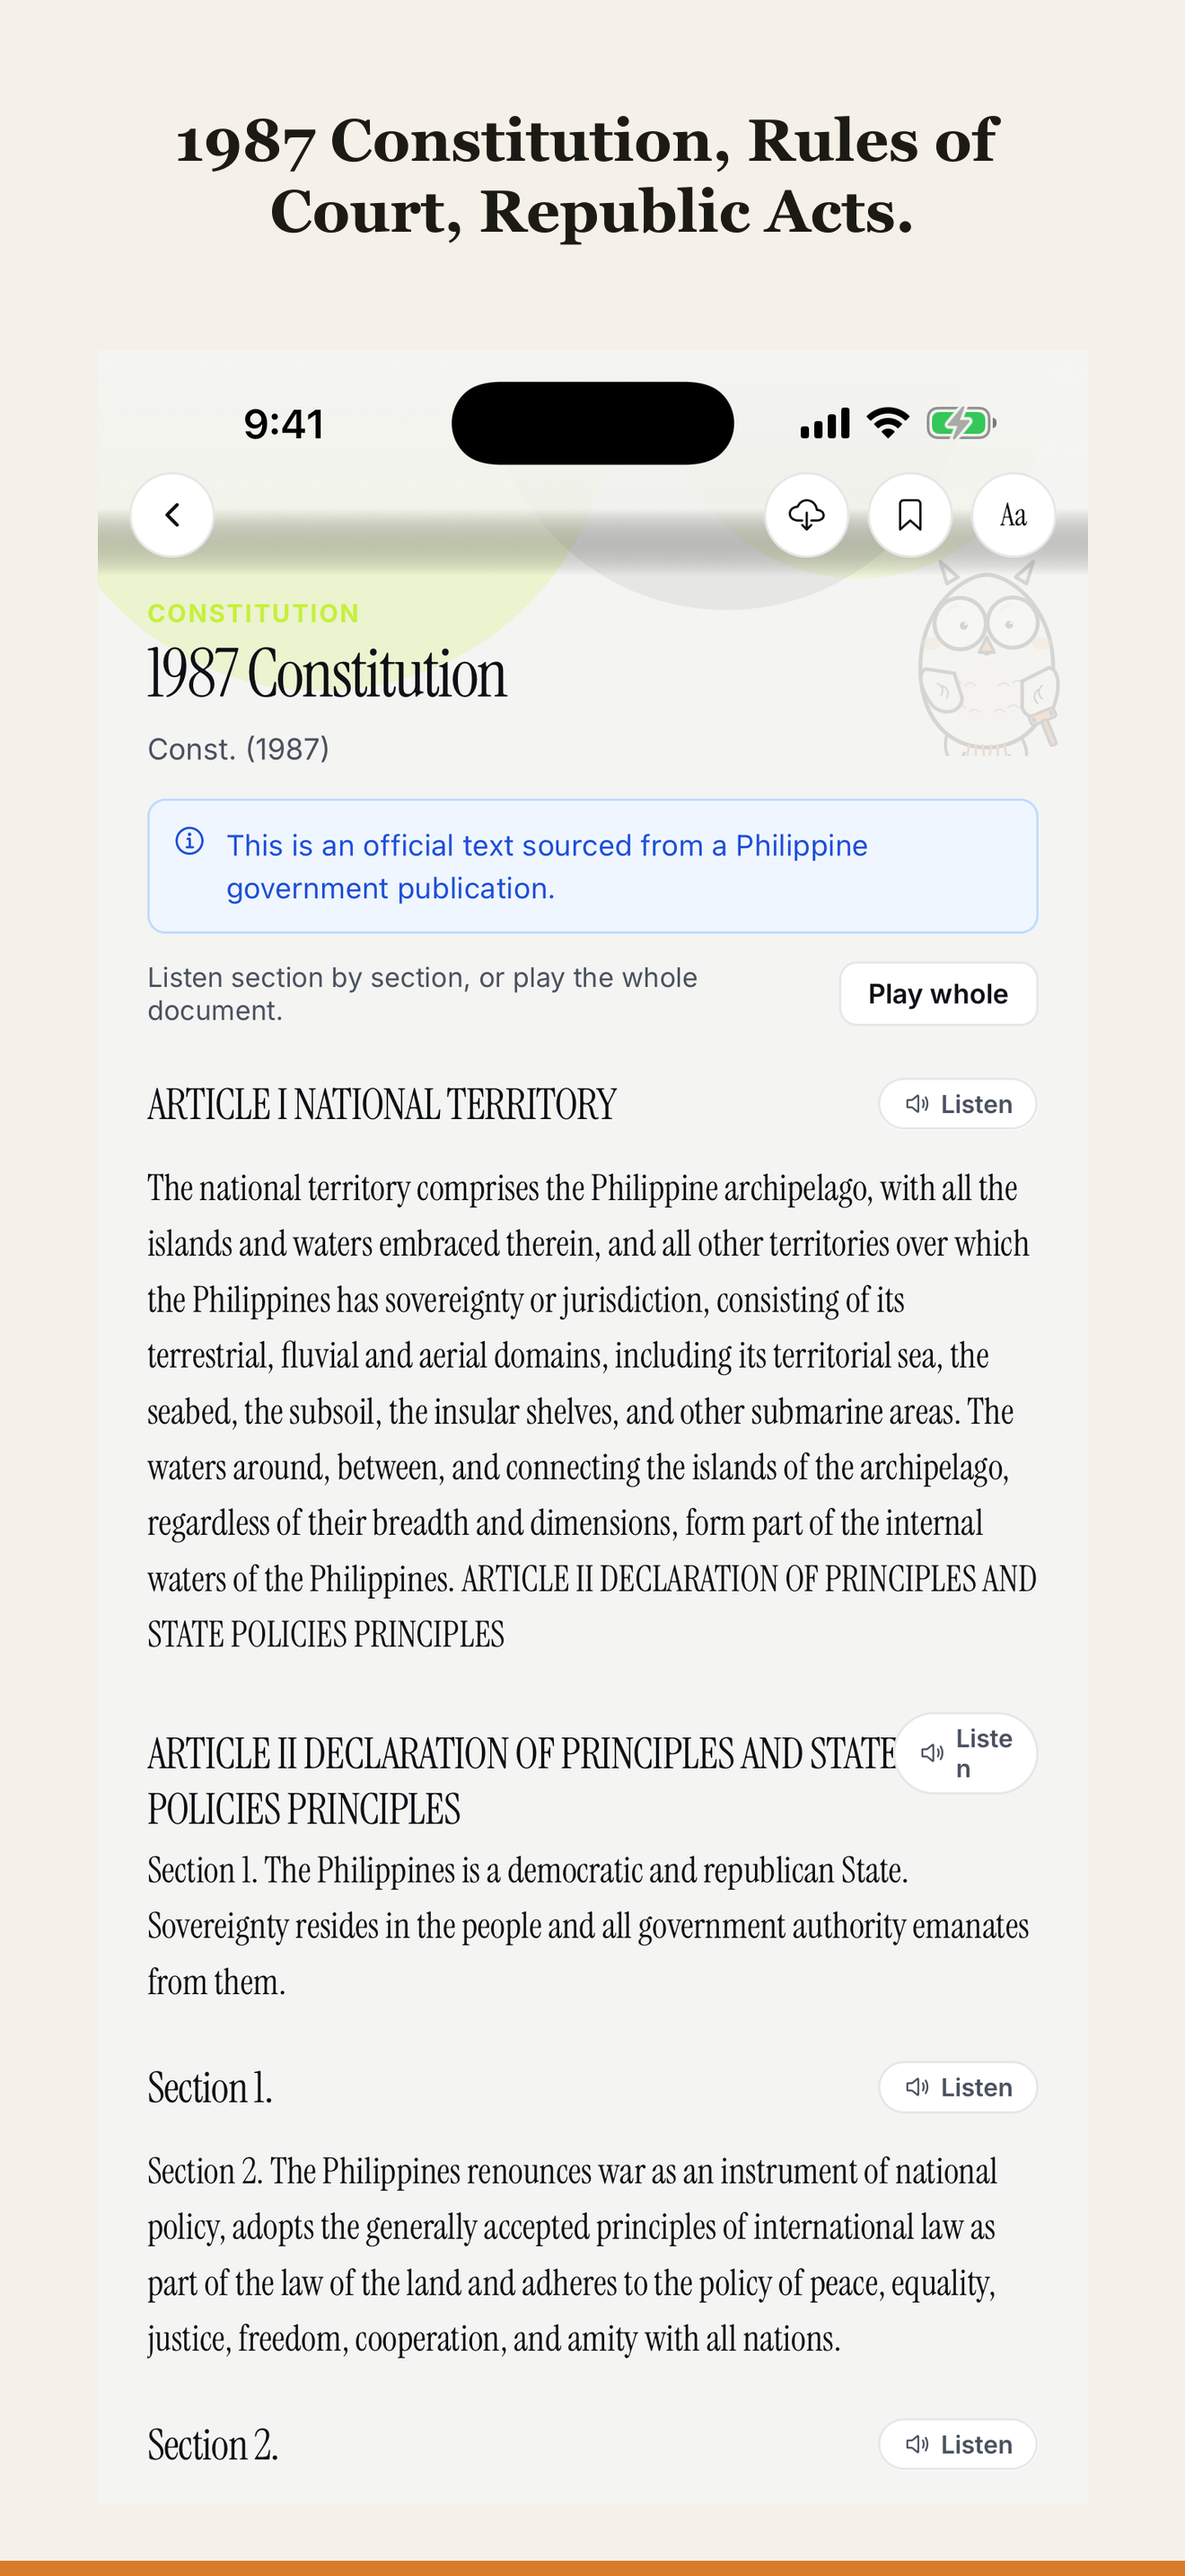
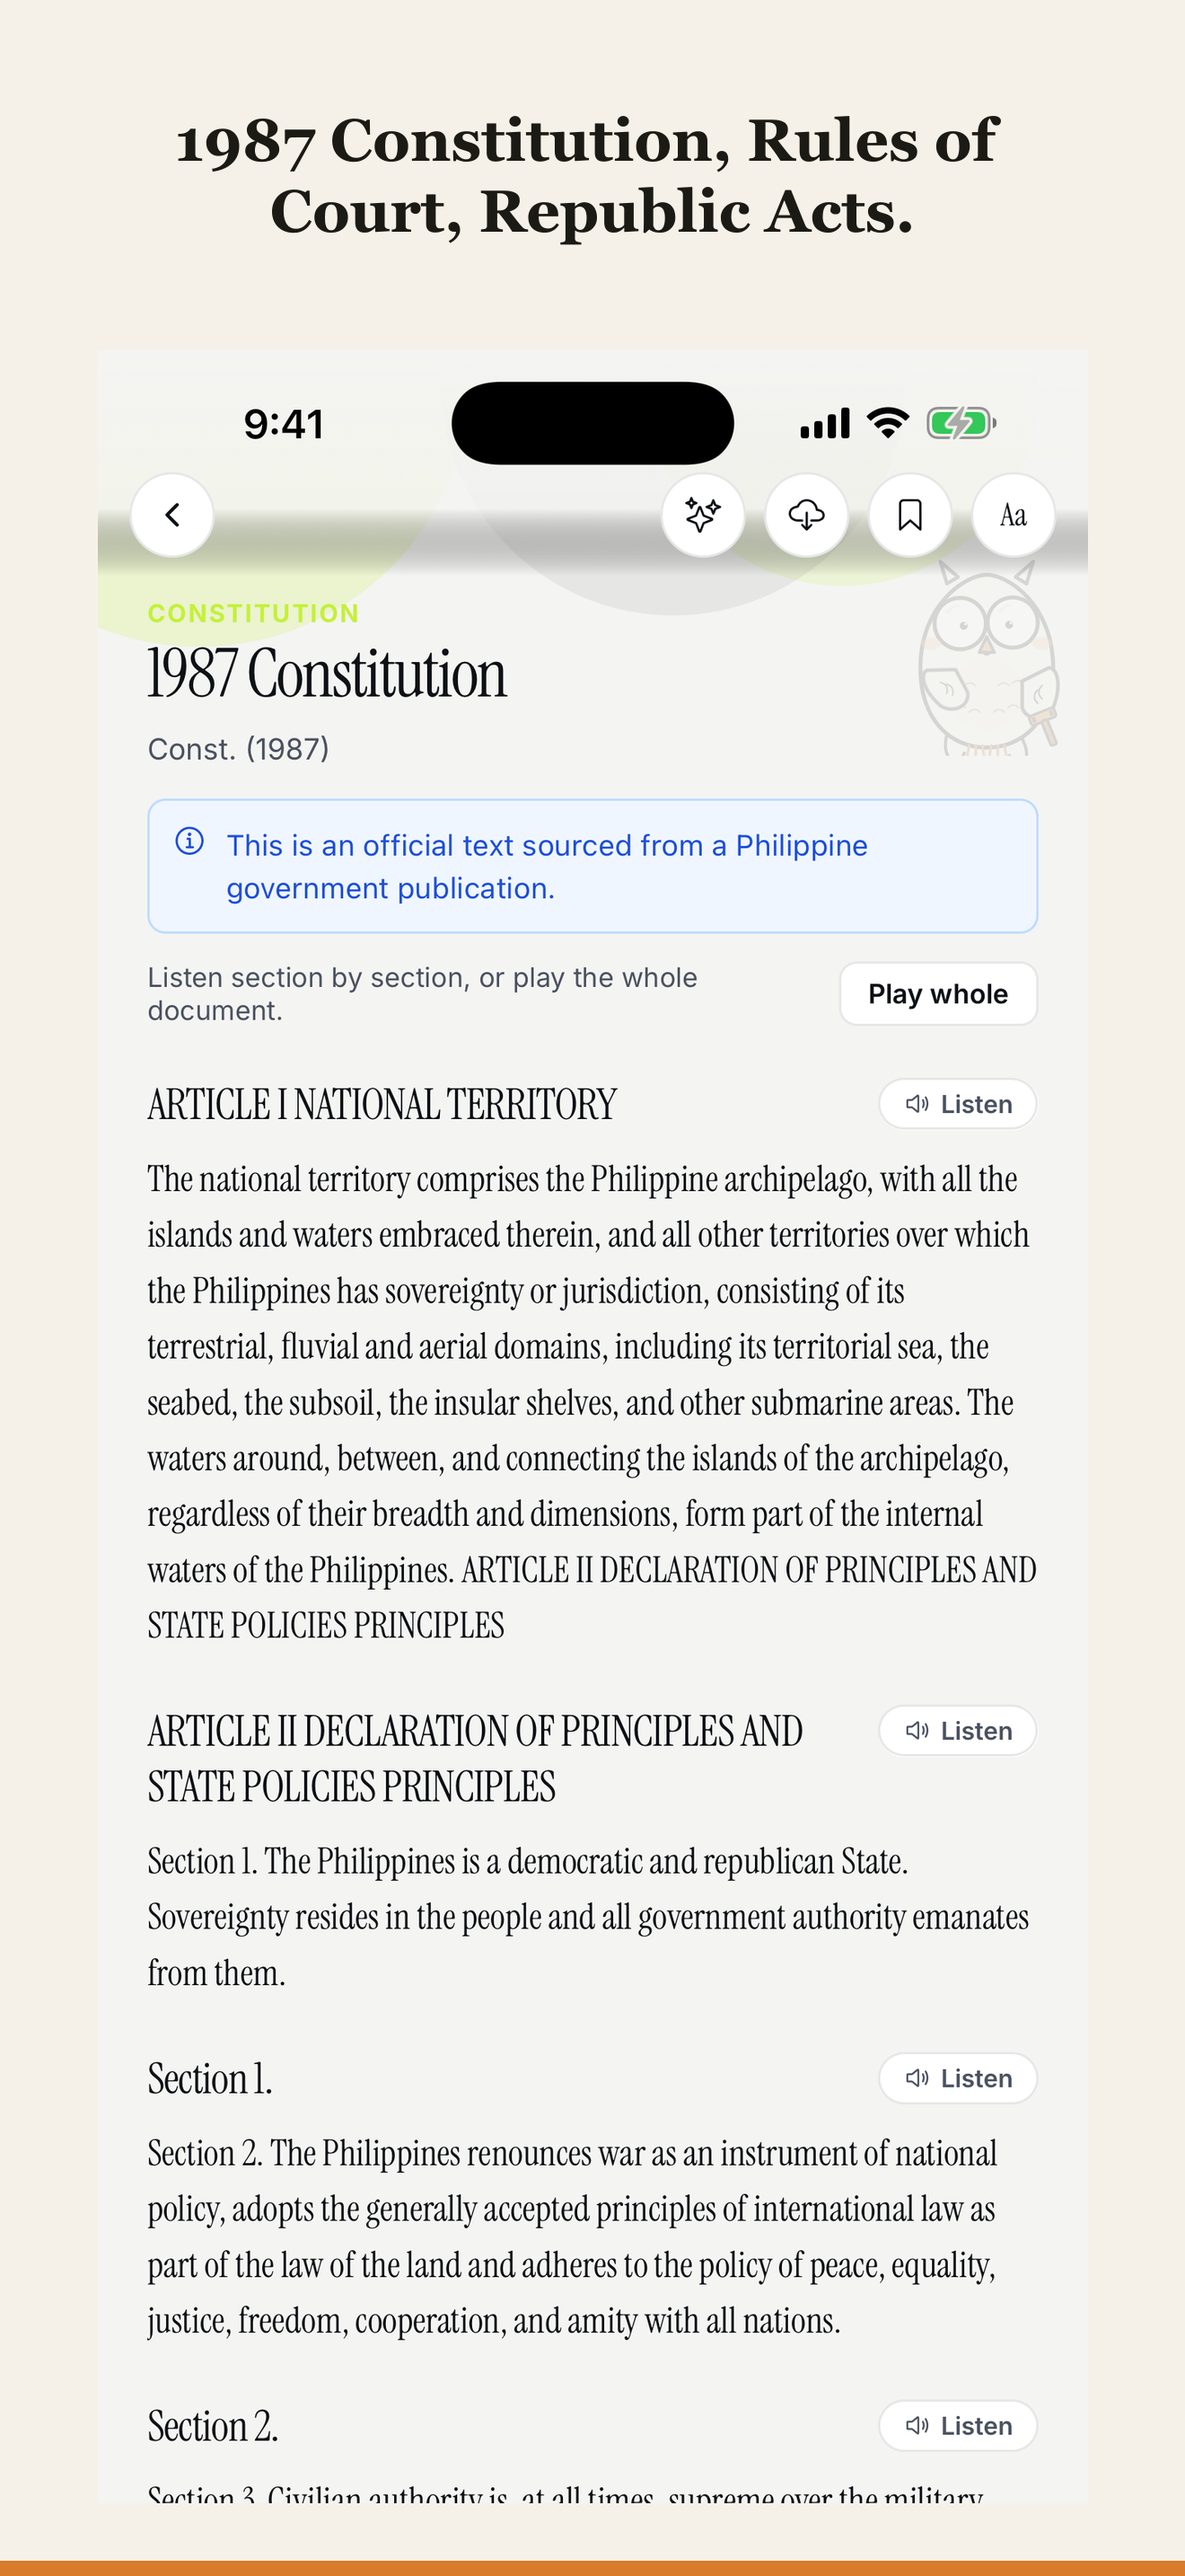
chore(mobile): recapture App Store screenshots for iPhone (#378)
* chore(mobile): recapture App Store screenshots for iPhone and iPad

Second capture session, run against a simulator whose JS bundle was refreshed
from fadaf7f so #375/#376/#377 are actually on device.

Bundle gate PASSED before anything was captured: AI Summary on a live prod
query returned streamed text, a Sources (8) panel and a High confidence (100%)
badge — no "Request failed with status 201", no bare "validation_failed".
No native rebuild was needed; ExpoFetchModule is already compiled into the
installed binary. §8a records the export:embed + hermesc + codesign recipe.

Config corrections — three navHints described screens that do not exist or were
not what got shot, and 06 described a screen that was never built:
- 02-case-digests → the digests LIST, never the detail (its hero is a
  `<Photo label="hero · digest" />` placeholder with text illegible across it)
- 03-codal-reader → Search → "constitution", not the Codals tab
- 05-camera-scan  → the Scan LANDING screen; a staged viewfinder would itself
  be the 2.3.3 problem, since the simulator has no camera
- 06-offline-sync → REPLACED by 06-search. No sync/offline screen exists.
The §4 screens table now matches.

iPhone 6.9" (1320×2868): 6 raws, 5 framed.
- 03 RESHOT — the "Liste/n" pill collision is gone, verified against the
  two-line ARTICLE II heading that used to trigger it.
- 06-search NEW — query "constitution" puts four distinct result types in
[…]

diff --git a/apps/mobile/store/IOS_SCREENSHOT_CAPTURE.md b/apps/mobile/store/IOS_SCREENSHOT_CAPTURE.md
@@ -174,14 +174,18 @@ platform's exact pixel size.
 From `assets/store/screenshots.config.json`. **Only the first 3 appear on App
 Store install sheets**, so the order is not cosmetic.
 
+Corrected 2026-08-13 to match what the build actually renders. Three navHints
+described screens that do not exist or were not what got shot; `06` described a
+screen that was never built and has been replaced outright.
+
 | # | slug | navHint |
 |---|---|---|
 | 1 | `01-past-bar-exams` | Bar Exams tab → year/subject browser |
-| 2 | `02-case-digests` | Open a case digest → scroll to facts |
-| 3 | `03-codal-reader` | Codals tab → 1987 Constitution, Article III |
-| 4 | `04-ai-assistant` | AI chat → send a query, wait for the cited answer |
-| 5 | `05-camera-scan` | Camera scanner → frame a sample printout |
-| 6 | `06-offline-sync` | Settings → Sync (last-synced + offline toggle) |
+| 2 | `02-case-digests` | The digests **list** screen. **Not** the detail — its hero is a `<Photo label="hero · digest" />` placeholder with pinned text rendering illegibly across it |
+| 3 | `03-codal-reader` | Search → "constitution" → 1987 Constitution, Article I. The Codals-tab route does not work |
+| 4 | `04-ai-assistant` | AI Summary → send a query that **answers** rather than abstains; confirm the Sources panel is in frame before capturing |
+| 5 | `05-camera-scan` | The Scan **landing** screen (Start Scan + real Recent Scans). Not a viewfinder — the simulator has no camera and staging one is itself a 2.3.3 violation |
+| 6 | `06-search` | Search tab → a broad legal term (e.g. "estafa") → results showing mixed result types |
 
 ---
 
@@ -385,6 +389,155 @@ child of window 1), which maps device pixels to screen points exactly.
   1320×2868 natively. **Read the accepted sizes off the 6.9" upload slot before
   uploading**; if it rejects 1320×2868, change `screenshots.config.json` to
   1290×2796 and re-run the framing step.
+
+### Session 2 — 2026-08-13 (after #374–#377 landed)
+
+**6 of 6 iPhone screens captured, 5 framed. iPad pass blocked on sign-in.
+Nothing uploaded to ASC. Submit for Review still unpressed.**
+
+#### Refreshing the JS bundle without a native rebuild
+
+The installed app is a **Release** build with Hermes bytecode embedded at
+`LIBERTASIAN.app/main.jsbundle`. It does not talk to Metro, so "restart Metro
+and reload" cannot deliver new JS to it. What does work, and takes ~2 minutes:
+
+```bash
+eval "$(fnm env --shell bash)" && fnm use 22.13.0
+pnpm --filter @libertasian/types build          # dist/ is gitignored (§8a)
+cd apps/mobile
+npx expo export:embed --platform ios --dev false \
+  --entry-file node_modules/expo-router/entry.js \
+  --bundle-output /tmp/b/main.jsbundle --assets-dest /tmp/b/assets
+# export:embed emits PLAIN JS; the app is Hermes. Compile it:
+node_modules/.../react-native/sdks/hermesc/osx-bin/hermesc \
+  -emit-binary -O -out /tmp/b/main.hbc /tmp/b/main.jsbundle
+APP=$(xcrun simctl get_app_container <UDID> com.libertasian.app)
+cp /tmp/b/main.hbc "$APP/main.jsbundle"
+codesign --force --sign - "$APP"                 # resources are sealed
+xcrun simctl terminate <UDID> com.libertasian.app && xcrun simctl launch <UDID> com.libertasian.app
+```
+
+`ExpoFetchModule` is already compiled into the binary (`strings` finds it), so
+#375's switch to `expo/fetch` needs **no** native rebuild — confirmed working.
+Both the iPhone 16 Pro Max and the iPad Pro 13" (M4) simulators now carry a
+bundle built from `fadaf7f`. Their original bundles are not backed up in-repo;
+reinstalling the app restores them.
+
+#### Bundle gate — PASSED
+
+AI Summary on a live prod query returned streamed text, a **Sources (8)** panel
+and a **High confidence (100%)** badge. No "Request failed with status 201", no
+bare `validation_failed`. #375, #376 and #377 are all confirmed on device.
+
+#### Further corrections to this document
+
+5. **`capture-screenshots.mjs` is interactive** (prompts, waits for Enter) and
+   hardcodes `xcrun simctl io booted screenshot`. Under an automated session it
+   is easier to drive the app directly and write
+   `assets/store/screenshots/raw/<slug>.ios.png` with an explicit `-UDID`,
+   which also sidesteps the `booted` ambiguity of §8a note 4.
+6. **System Events `click at` fails against the Simulator** with `-25204`
+   (`kAXErrorCannotComplete`). Use CGEvent mouse events, as §8a did. The
+   Accessibility grant on **Terminal** is inherited by child processes, so
+   `AXIsProcessTrusted()` is already true from a venv python — no new TCC prompt.
+   §8a's 120ms/char typing rate is still required; the recent-searches list
+   still carries `cnstitutiono` from the 30ms attempt.
+
+#### Per-screen outcome
+
+| # | slug | status | note |
+|---|---|---|---|
+| 1 | `01-past-bar-exams` | **reused** | Last session's frame is clean; nothing to fix. |
+| 2 | `02-case-digests` | **reused** | Digests list. Detail screen still blocked by the `hero · digest` placeholder. |
+| 3 | `03-codal-reader` | **RESHOT** | 1987 Constitution, Article I. **The "Liste/n" pill collision is gone** — verified against the two-line `ARTICLE II DECLARATION OF PRINCIPLES AND STATE POLICIES` heading. |
+| 4 | `04-ai-assistant` | **captured, NOT cleared for store** | Raw committed as evidence; deliberately **not** framed. See below. |
+| 5 | `05-camera-scan` | **reused** | Scan landing. |
+| 6 | `06-search` | **NEW** | Query `constitution` — four distinct result types in frame (Constitution, Decision, Executive Order, Bar Exam Questions). `estafa` was tried first and returned almost entirely Bar Q&A. |
+
+#### New blocker — 04 is still not shippable, for a different reason
+
+The streaming bug is fixed, but every substantive answer now renders **raw
+citation markers**:
+
+> …encompassing terrestrial, fluvial, and aerial domains, as well as internal
+> waters **[SOURCE 2e2bad34-d194-4ddb-9e70-c9d0cd2ff388§f767e1bc-4578-4a85-a99b-6f9886af62d7]**.
+
+`services/rag-service/src/answer/prompts.py:21,37` instructs the model to emit
+`[SOURCE document_id]` / `[SOURCE document_id§section_id]` inline, and **neither
+client strips nor renders them** — `grep` for the marker across `apps/web/src`
+and `apps/mobile/src` returns nothing. So this is live on both platforms, and it
+is not scroll-position-dependent: the only answers without markers are
+abstentions. Unrendered `**markdown**` bold appears for the same reason.
+
+A store frame whose hero text is a bare UUID reads as debug output, so `04` is
+held out of `framed/`. Two smaller issues on the same screen: the Sources panel
+lists the same document 8× (no dedupe by document), and once scrolled the answer
+runs under the status bar with no opaque background, so text collides with the
+clock.
+
+**Fix the markers before capturing 04.** Everything else about the screen is
+ready.
+
+#### iPad — blocked on sign-in, not on tooling
+
+The iPad Pro 13" (M4) simulator (2064×2752, genuine iPad UI) is **signed out**,
+and this session had no account password. Its bundle is refreshed and the status
+bar is overridden, so the next session only needs to sign in and capture. It is
+the device currently left booted.
+
+#### Still not resolved
+
+- **Nothing uploaded to ASC.** No browser automation, no ASC API key, no
+  fastlane on this machine — same as §8a. §7's checklist is therefore 0/10
+  confirmed, again.
+- **The 6.9" dimension is still unread off the ASC upload slot**, for the same
+  reason. We continue to capture 1320×2868 natively.
+
+### Session 3 — 2026-08-13, rebased onto #379
+
+**All 6 iPhone screens now framed.** This branch was cut from `aade14d`, before
+#379 (`b7b3be5`, "render inline citations instead of raw SOURCE markers")
+landed, and has been rebased onto it.
+
+#### Why two screens were re-shot
+
+- **`04-ai-assistant`** — the blocker recorded in Session 2 is fixed. The
+  simulator bundle was rebuilt from `b7b3be5` with the recipe above and the
+  answer now reads as prose with inline `[1]`, `[2]`, `[4]`, `[5]`, `[6]`
+  citations pointing at numbered rows in the Sources panel. No raw UUID, no
+  `SOURCE`, no literal `**asterisks**`. It is framed for the first time.
+- **`06-search`** — #379 also added the status-bar scrim to
+  `SearchScreen.tsx`, so the previous capture was stale. Re-shot; the status
+  bar area is opaque and nothing collides with the clock.
+
+`01`, `02`, `03` and `05` are untouched by #379 and were deliberately NOT
+re-shot — their raws and framed PNGs are byte-identical to Session 2.
+
+#### The query matters more than expected
+
+`constitution` produced a genuinely cited answer (High confidence 100%, 8
+sources). **Most substantive legal queries currently do not.** They come back
+with "The provided source passages do not contain specific information
+regarding…" and zero valid citations — a known retrieval gap, not a client bug,
+and unrelated to this branch. A polite non-answer looks almost identical at a
+glance and is a bad frame for a legal research app, so **read the answer before
+capturing**, don't just check that text appeared.
+
+#### Still open on the Sources panel
+
+Eight rows all read "1987 Constitution of the Philippines / Const. (1987)".
+They are eight *distinct sections* — deduplication is on exact
+`(document_id, section_id)` pairs, so nothing is being collapsed wrongly — but
+the server's `AnswerSource` (`services/rag-service/src/answer/schemas.py:81-93`)
+carries no section heading, only a `section_id` uuid. The `1.`–`8.` numbering
+added in #379 is what disambiguates the rows today. Surfacing a real heading
+needs a new field on that schema.
+
+#### iPad — still not captured
+
+Unchanged from Session 2: the iPad Pro 13" simulator is signed out and no
+session so far has had an account password. Its bundle is still the `fadaf7f`
+build, so it needs the rebuild recipe re-run from `b7b3be5` after sign-in.
 
 ## 9. Related open PRs
 
